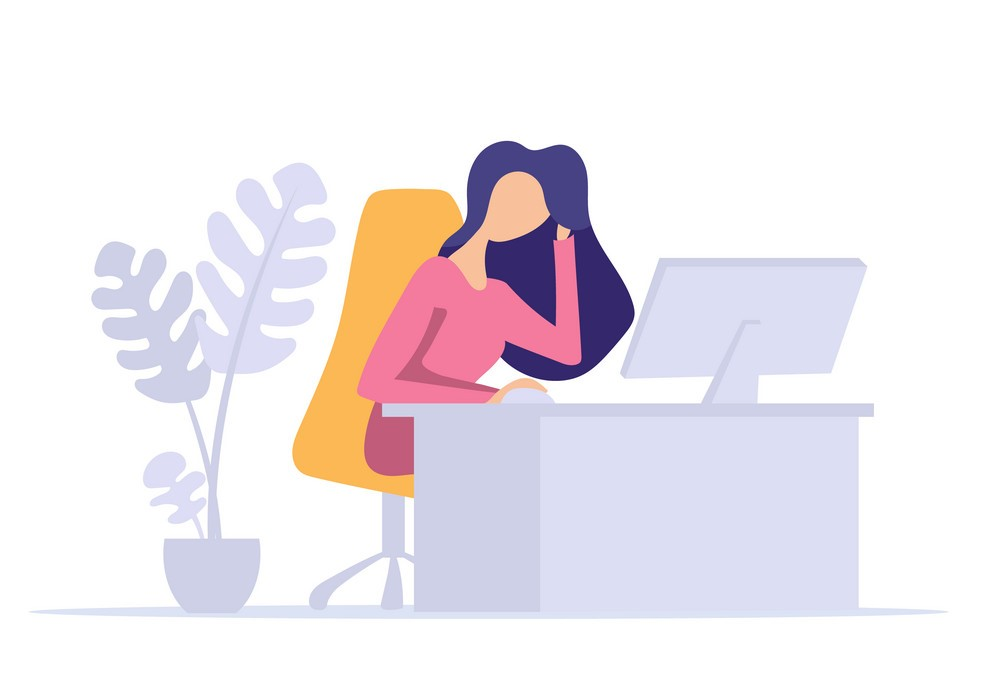
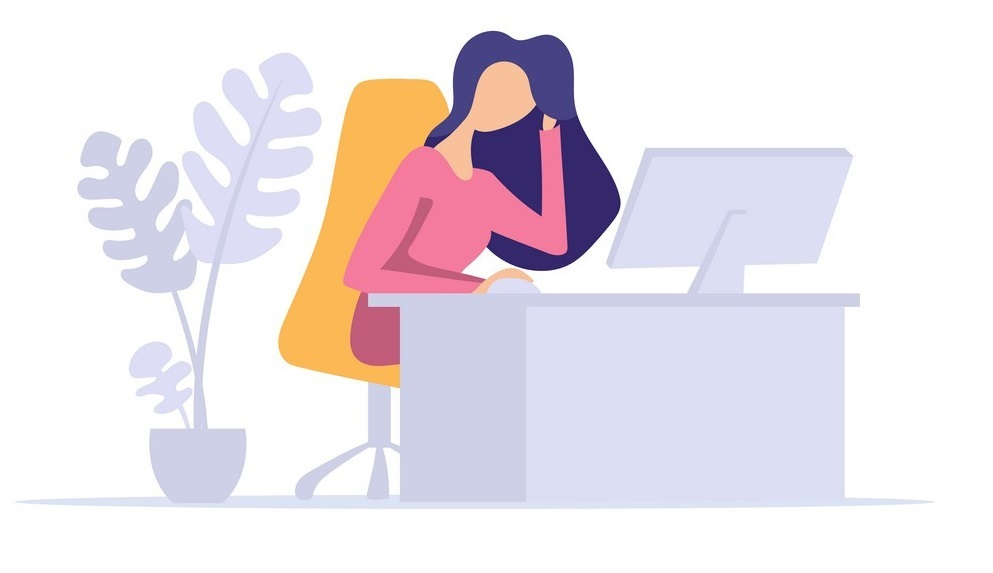
fix message pic

Changed region(s): [[0.0312, 0.0593, 0.9366, 0.9197]]

diff --git a/message.html b/message.html
@@ -1,2 +1,2 @@
 <p style="font-size: 35px;font-family: system-ui;text-align: center;color: orange;">still working on it. try to run anoter project ;)</p>
-<img  class="" style="width: 90%;height: auto;" src="images/message.jpg" alt="" onclick="window.open(this.src)">
+<img  class="" style="width: 90%;height: auto; padding: 0 60px;" src="images/message.jpg" alt="" onclick="window.open(this.src)">
